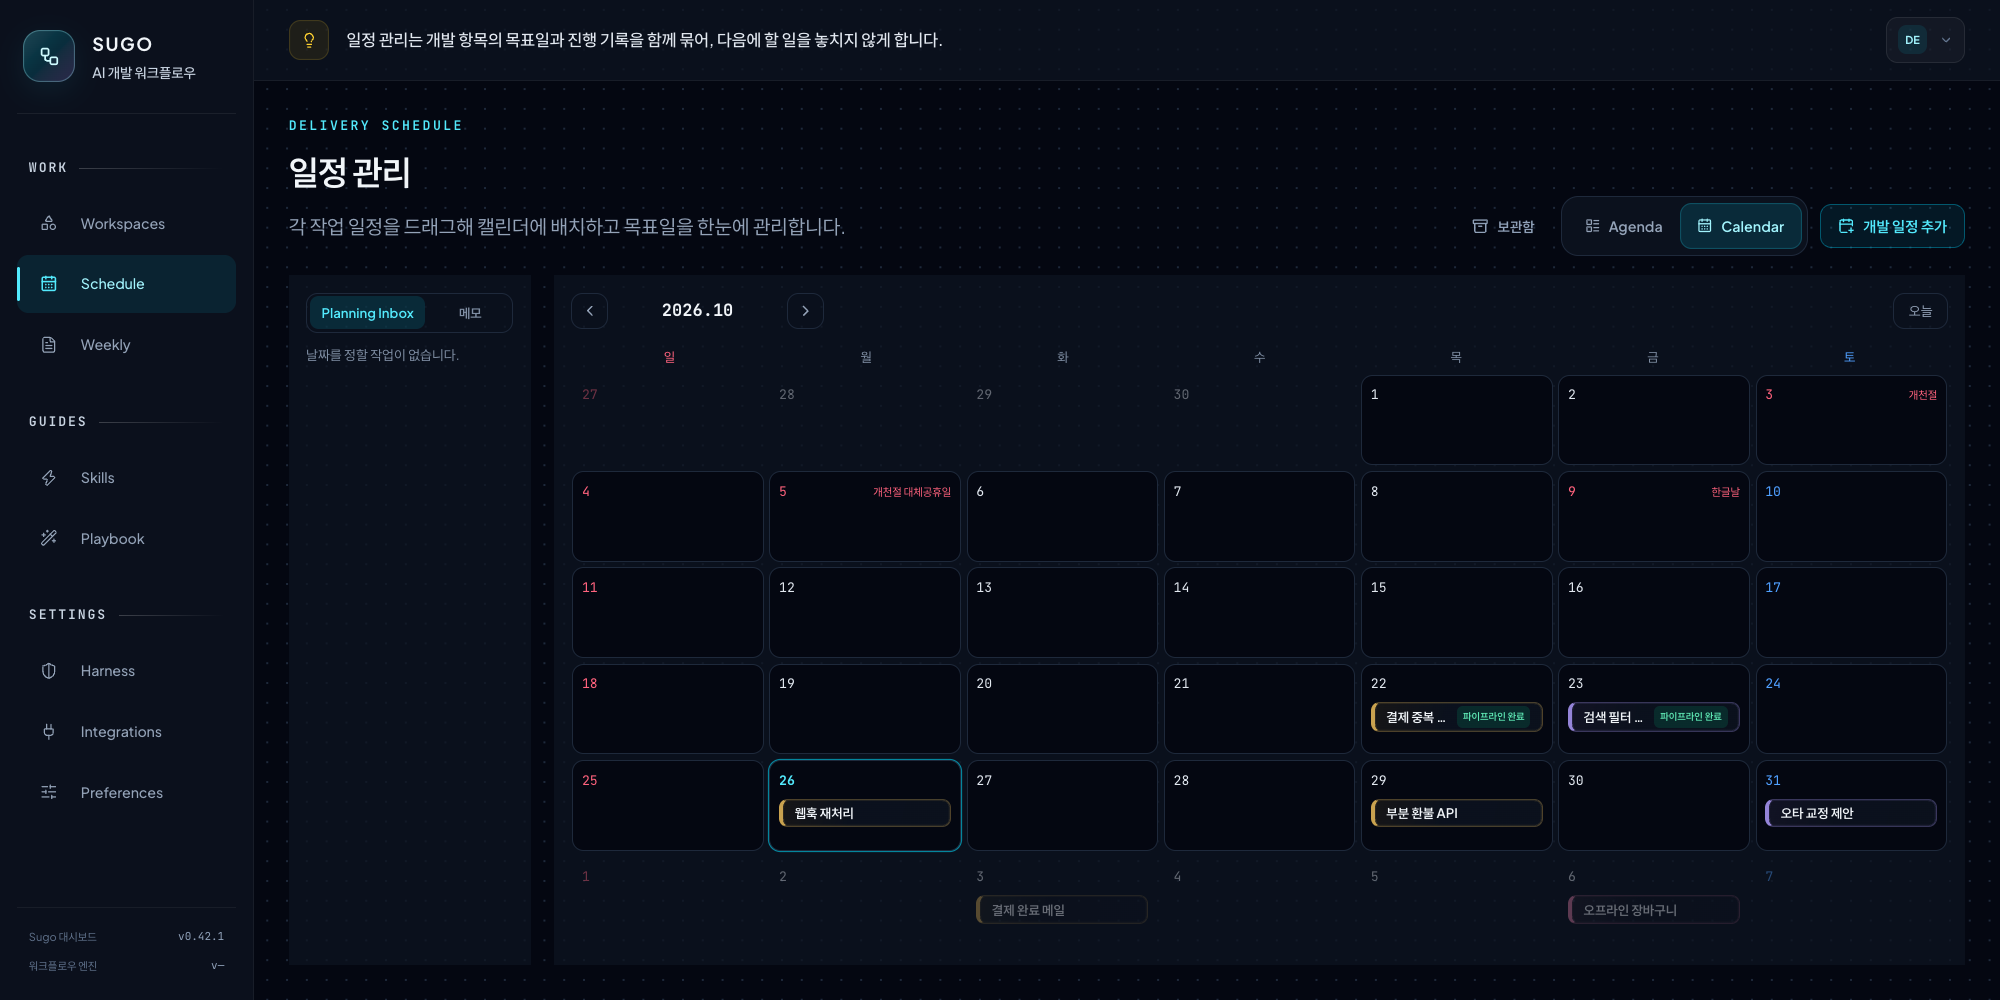
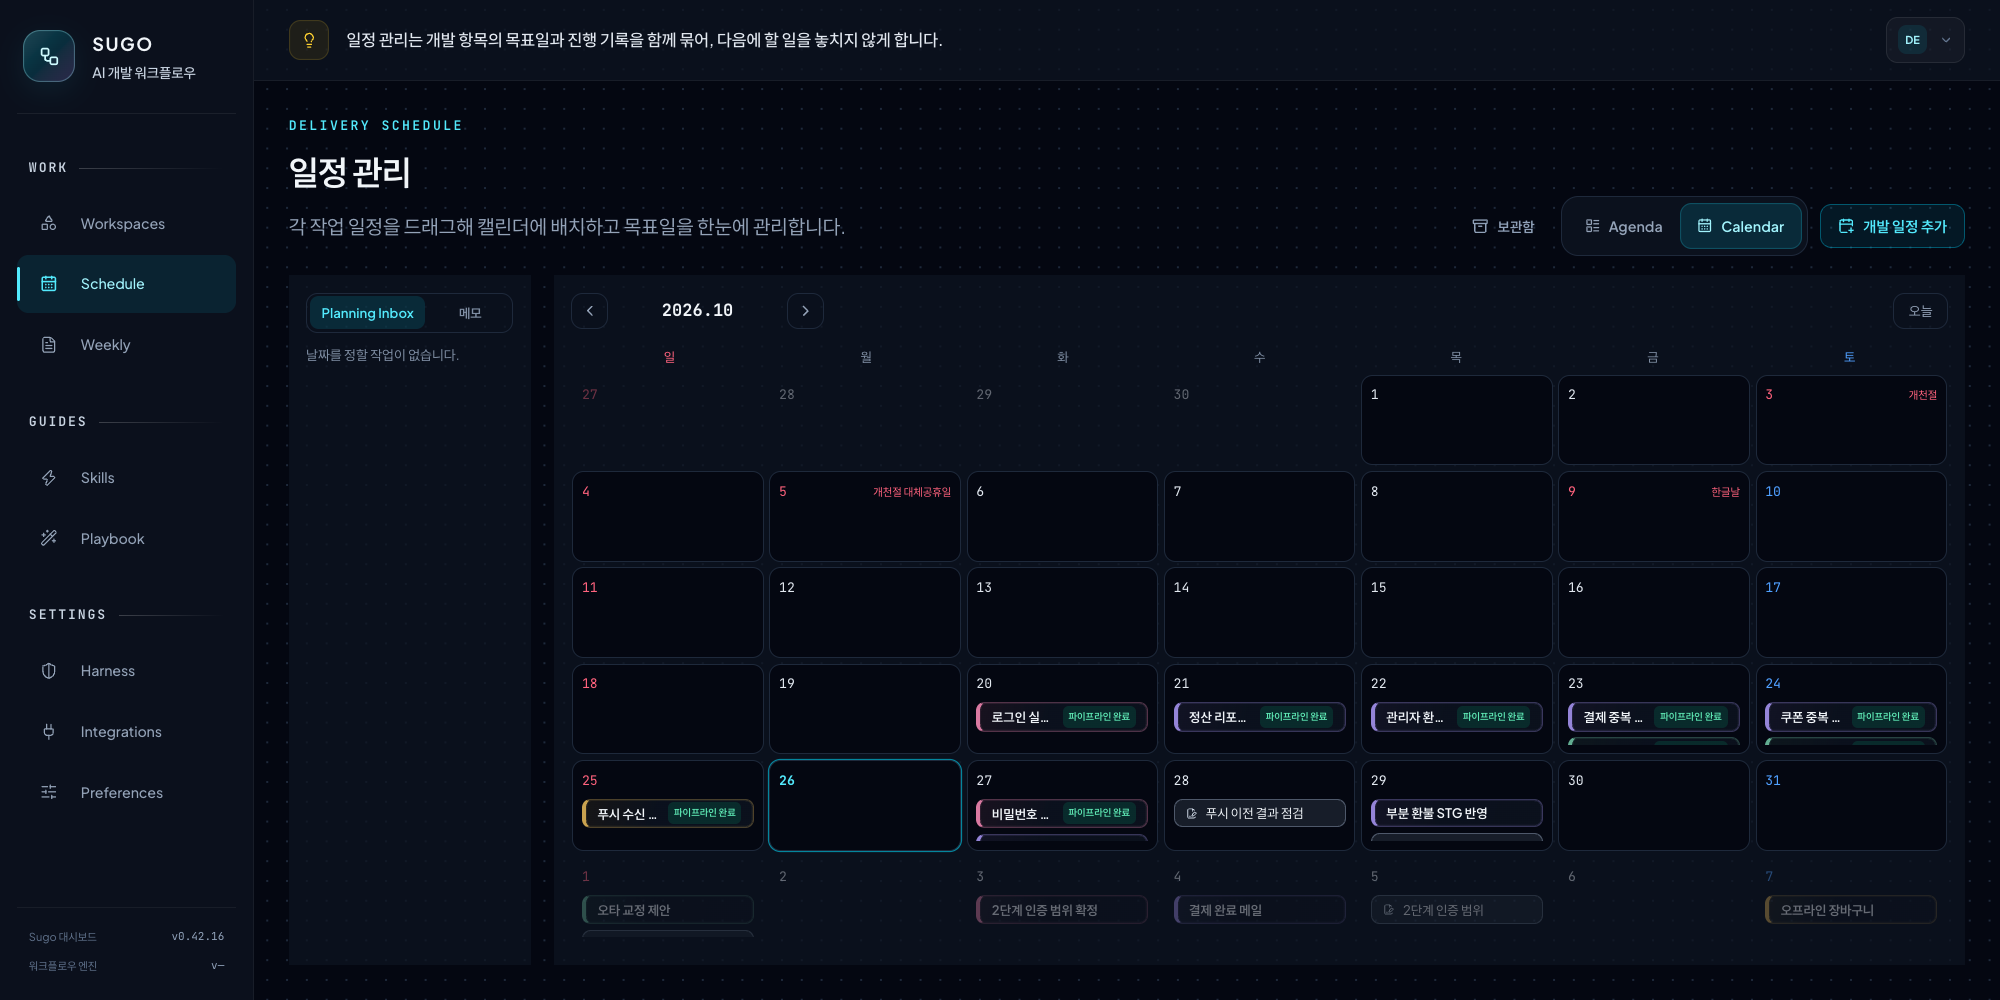
docs: reshoot README screenshots with the expanded demo data
Retake every Console screenshot from the current UI and the expanded demo data. Describe the work floor, recent work summary, rest state, and the Inspector Repositories, History, and Activity tabs. Add a Weekly review section with its screenshot in both READMEs.

diff --git a/README.en.md b/README.en.md
@@ -121,9 +121,11 @@ Group the projects of one business area into a domain, and keep the same context
 
 #### Check progress
 
-On the domain work floor, see the step and finished records of the selected task. The Inspector below lists the projects registered in the domain.
+On the domain work floor, see the current step of the selected task. The recent work summary card below shows the task title and its finished result. When there is no record for more than 4 days, the stations go dark and the worker rests in the lounge.
 
-![Workspaces work floor: step, finished records, and projects of the domain](docs/images/console-workspaces.png)
+The Inspector on the right shows the domain projects (Repositories), finished history (History), and the step records of the selected task (Activity). Drag the border between the summary card and the Inspector to change their widths.
+
+![Workspaces work floor: task step, recent work summary, Inspector](docs/images/console-workspaces.png)
 
 #### User approval
 
@@ -133,6 +135,12 @@ Read the verification result and the changed-file diff, then approve or request 
   <img src="docs/images/console-approval.png" alt="Work result review and approval" width="49%">
   <img src="docs/images/console-diff.png" alt="Changed-file diff" width="49%">
 </p>
+
+#### Weekly review
+
+Weekly collects the finished results and commit bodies of one week into a weekly report and technical learning notes. The report has last week's plan, the situation and goal of each topic, blockers, and next week's plan.
+
+![Weekly: weekly work report](docs/images/console-weekly.png)
 
 ## What installing Sugo changes
 

diff --git a/README.md b/README.md
@@ -121,9 +121,11 @@ flowchart LR
 
 #### 진행 확인
 
-도메인의 작업장에서 선택한 작업의 진행 단계와 완료 기록을 본다. 아래 Inspector에 도메인에 등록한 프로젝트가 나온다.
+도메인의 작업장에서 선택한 작업이 지금 어느 단계에 있는지 본다. 그 아래 최근 작업 요약 카드에 작업 제목과 완료 결과가 나온다. 4일 넘게 기록이 없으면 작업대가 꺼지고 작업자는 휴게 공간에서 쉰다.
 
-![Workspaces 작업장: 작업별 진행 단계, 완료 기록, 도메인의 프로젝트](docs/images/console-workspaces.png)
+오른쪽 Inspector에는 도메인의 프로젝트(Repositories), 완료 이력(History), 선택한 작업의 단계별 기록(Activity)이 나온다. 요약 카드와 Inspector 사이 경계를 끌어 폭을 바꾼다.
+
+![Workspaces 작업장: 작업 진행 단계, 최근 작업 요약, Inspector](docs/images/console-workspaces.png)
 
 #### 사용자 승인
 
@@ -133,6 +135,12 @@ flowchart LR
   <img src="docs/images/console-approval.png" alt="작업 결과 확인과 승인" width="49%">
   <img src="docs/images/console-diff.png" alt="변경 파일 diff" width="49%">
 </p>
+
+#### 주간 회고
+
+Weekly는 한 주의 완료 결과와 커밋 본문을 모아 주간 보고서와 기술 학습 노트를 만든다. 보고서는 지난주 계획, 주제별 상황과 목적, 막힌 것, 다음 주 계획으로 나뉜다.
+
+![Weekly: 주간 작업 리포트](docs/images/console-weekly.png)
 
 ## 설치 시 변경 사항
 
